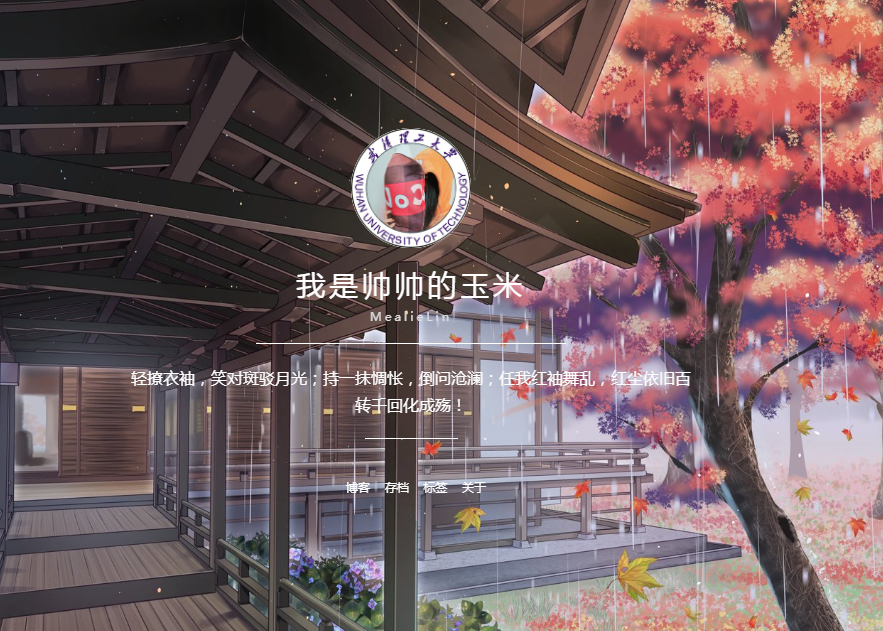
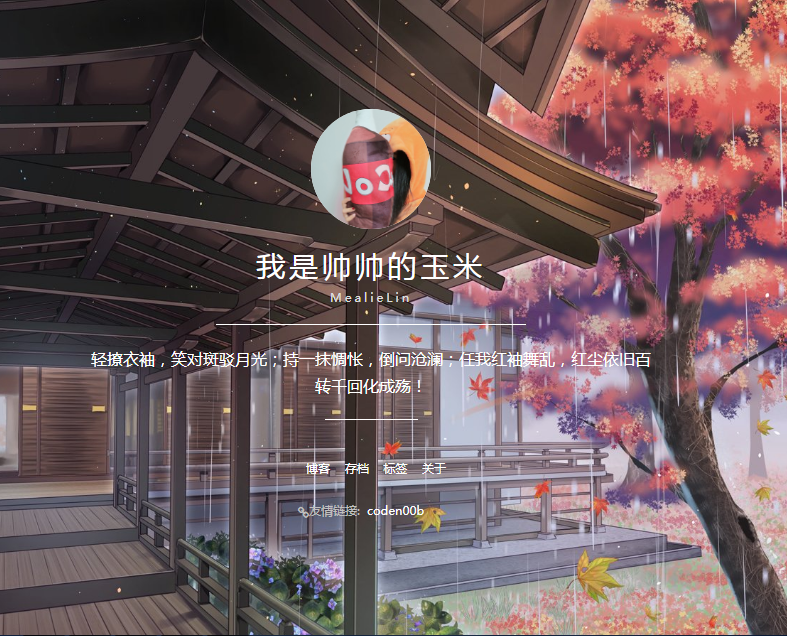
default

diff --git a/_includes/about/resumer_01-basic.html b/_includes/about/resumer_01-basic.html
@@ -3,7 +3,7 @@
         <div class="col-sm-12 clear-mrg text-box">
             <h2 class="title-lg text-upper">关于我</h2>
 
-            <p><b>Helo, 我是MealieLin</b><br>
+            <p><b>快乐的小码农！</b><br>
 
             </p>
 
@@ -24,22 +24,22 @@
                 <dd>女</dd>
 
                 <dt class="text-upper">出生日期</dt>
-                <dd>10 Jan 1993</dd>
+                <dd>xxxxxxxxxxx</dd>
 
                 <dt class="text-upper">手机</dt>
                 <dd>xxxxxxxxxxx</dd>
 
                 <dt class="text-upper">e-mail</dt>
-                <dd><a href="mailto:mealie_lin@163.com">mealie_lin@163.com</a></dd>
+                <dd>xxxxxxxxxxx</dd>
 
             </dl>
         </div><!-- .col-sm-6 -->
 
         <div class="col-sm-6 clear-mrg">
-            <h2 class="title-thin text-muted">语言</h2>
+            <h2 class="title-thin text-muted">XX</h2>
 
             <div class="progress-bullets crt-animate" role="progressbar" aria-valuenow="10" aria-valuemin="0" aria-valuemax="10">
-                <strong class="progress-title">英语</strong>
+                <strong class="progress-title">XX1</strong>
                 <span class="progress-bar">
                         <span class="bullet fill"></span>
                         <span class="bullet fill"></span>
@@ -52,11 +52,11 @@
                         <span class="bullet"></span>
                         <span class="bullet"></span>
                     </span>
-                <span class="progress-text text-muted">CET-4</span>
+                <span class="progress-text text-muted">备注1</span>
             </div>
 
             <div class="progress-bullets crt-animate" role="progressbar" aria-valuenow="10" aria-valuemin="0" aria-valuemax="10">
-                <strong class="progress-title">闽南语</strong>
+                <strong class="progress-title">XX2</strong>
                 <span class="progress-bar">
                         <span class="bullet fill"></span>
                         <span class="bullet fill"></span>
@@ -69,11 +69,11 @@
                         <span class="bullet fill"></span>
                         <span class="bullet fill"></span>
                     </span>
-                <span class="progress-text text-muted">祖籍</span>
+                <span class="progress-text text-muted">备注2</span>
             </div>
 
             <div class="progress-bullets crt-animate" role="progressbar" aria-valuenow="10" aria-valuemin="0" aria-valuemax="10">
-                <strong class="progress-title">潮汕语</strong>
+                <strong class="progress-title">XX3</strong>
                 <span class="progress-bar">
                         <span class="bullet fill"></span>
                         <span class="bullet fill"></span>
@@ -86,7 +86,7 @@
                         <span class="bullet fill"></span>
                         <span class="bullet fill"></span>
                     </span>
-                <span class="progress-text text-muted">出生地</span>
+                <span class="progress-text text-muted">备注3</span>
             </div>
 
         </div><!-- .col-sm-6 -->

diff --git a/_includes/footer.html b/_includes/footer.html
@@ -54,26 +54,7 @@
             </a>
           </li>
           {% endif %}
-          
-          {% if site.social.twitter %}
-          <!-- Twitter -->
-          <li class="navigation__item_social">
-            <a href="http://twitter.com/{{site.social.twitter}}" title="@{{site.social.twitter}}" target="_blank">
-              <i class='social fa fa-twitter fa-2x'></i>
-              <span class="label">Twitter</span>
-            </a>
-          </li>
-          {% endif %}
 
-          {% if site.social.gplus %}
-          <!-- Google Plus -->
-          <li class="navigation__item_social">
-            <a href="https://plus.google.com/{{site.social.gplus}}" rel="author" title="Google+" target="_blank">
-              <i class='social fa fa-google-plus-square fa-2x'></i>
-              <span class="label">Google Plus</span>
-            </a>
-          </li>
-          {% endif %}
 
           {% if site.social.mail %}
           <!-- Email -->
@@ -100,10 +81,10 @@
             </iframe>
                <link rel="stylesheet" href="//cdn.bootcss.com/font-awesome/4.3.0/css/font-awesome.min.css">
 
-               <!-- pv的方式，单个用户连续点击n篇文章，记录n次访问量 -->
+               <!--&lt;!&ndash; pv的方式，单个用户连续点击n篇文章，记录n次访问量 &ndash;&gt;
                <span id="busuanzi_container_site_pv"> 本站访问：<span id="busuanzi_value_site_pv"></span> 次 </span>
-               <!-- uv的方式，单个用户连续点击n篇文章，只记录1次访客数 -->
-               <span id="busuanzi_container_site_uv">| 本站访客：<span id="busuanzi_value_site_uv"></span> 人次</span>
+               &lt;!&ndash; uv的方式，单个用户连续点击n篇文章，只记录1次访客数 &ndash;&gt;
+               <span id="busuanzi_container_site_uv">| 本站访客：<span id="busuanzi_value_site_uv"></span> 人次</span>-->
             </div>
         <div>
     </footer>

diff --git a/_includes/side-panel.html b/_includes/side-panel.html
@@ -50,6 +50,16 @@
           </div>          
         </div>
 
+        <div class="navigation-wrapper">
+            <div>
+                <nav class="cover-navigation cover-navigation--primary">
+                    <ul class="navigation">
+                        <li style="color: #c0c0c0;font-size: 8px"><i class='social fa fa-link fa-lg'></i>友情链接:&nbsp;&nbsp;<a href="https://{{site.friendship_link.coden00b}}.com/" title="{{site.friendship_link.coden00b}}" class="blog-button">{{site.friendship_link.coden00b}}</a></li>
+                    </ul>
+                </nav>
+            </div>
+        </div>
+
 
         </div>
       </div>

diff --git a/about.html b/about.html
@@ -20,13 +20,7 @@ group: navigation
 
                         {% include about/resumer_02-profetional.html %}
 
-                        {% include about/resumer_03-education.html %}
-
-                        {% include about/resumer_04-experience.html %}
-
-                        {% include about/resumer_05-certification.html %}
-
-                        {% include about/resumer_06-personal_project.html %}
+                        {% include about/resumer_03-personal_project.html %}
 
                     </div><!-- .padd-box -->
                     <!-- END: PAGE CONTENT -->

diff --git a/_includes/head.html b/_includes/head.html
@@ -47,7 +47,7 @@
   <!--博客相关head结束-->
 
   <!-- 百度统计 上传代码的时候要记得放开注释 -->
-  <script>
+  <!--<script>
       var _hmt = _hmt || [];
       (function() {
           var hm = document.createElement("script");
@@ -55,7 +55,7 @@
           var s = document.getElementsByTagName("script")[0];
           s.parentNode.insertBefore(hm, s);
       })();
-  </script>
+  </script>-->
 
 <!-- google 统计 -->
   {% if site.ga.id %}
